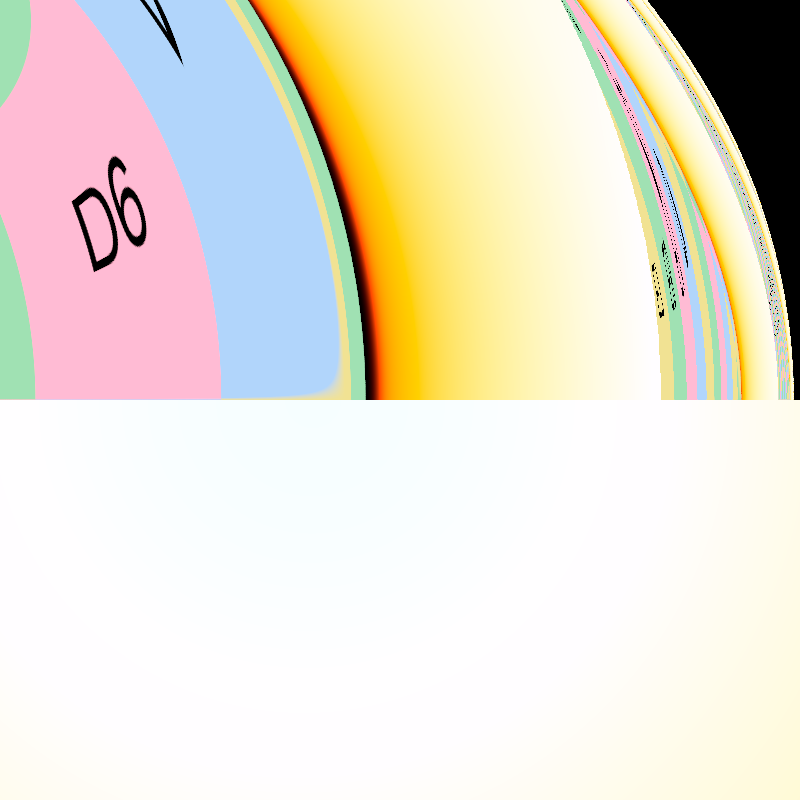
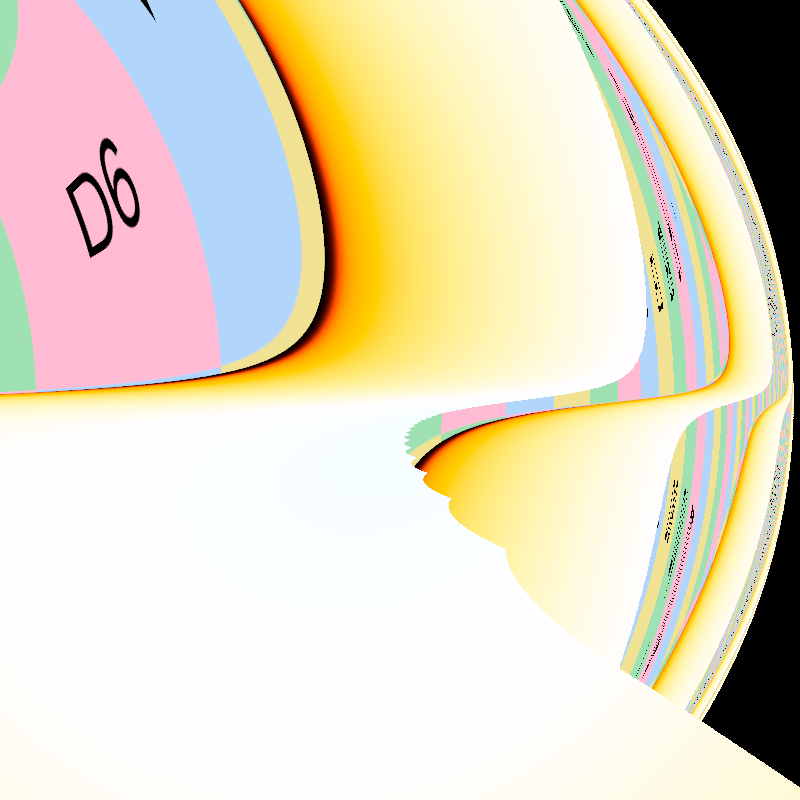
fix(images): epsilon 1e-9 for flat-disc stills; lift on-surface vantage cameras
The blackbody and checker sets get the same missed-grazing-hit epsilon
pin as the vantages (their transversal cameras only showed rim-level
differences, ~0.1-0.2% of pixels, but the pin is cheap). The Kerr
photonsphere and grazing vantage cameras had BL radii (0.808, 1.003)
inside the disc annulus at exactly z=0, i.e. sitting ON the razor-thin
disc with the visible side decided by floating-point noise in the chart
conversion; they now hover at z=0.02, which replaces the artificial
hemisphere seam with the actual disc surface curving away below.

diff --git a/images/kerr.md b/images/kerr.md
@@ -116,12 +116,12 @@ frame dragging pulls every one of them into asymmetry. The disc glow is
 
 <div align="center">
   <img src="vantage_kerr_photonsphere_edge.png" alt="The Kerr winding wall over bright inner-disc glow">
-  <p>Photon-shell edge: the winding wall of stacked disc and sky images, over the blinding glow of gas orbiting deep inside the well.</p>
+  <p>Photon-shell edge, hovering just above the disc surface: the winding wall of stacked disc and sky images, with the glowing surface curving away beneath the camera.</p>
 </div>
 
 <div align="center">
   <img src="vantage_kerr_grazing_winding.png" alt="Grazing multiple windings around the Kerr hole">
-  <p>Grazing view: the multiple-winding band, distorted relative to Schwarzschild because prograde and retrograde light circle at different radii around a spinning hole.</p>
+  <p>Grazing view, skimming just above the disc surface inside its annulus: the multiple-winding band, distorted relative to Schwarzschild because prograde and retrograde light circle at different radii around a spinning hole.</p>
 </div>
 
 <div align="center">
